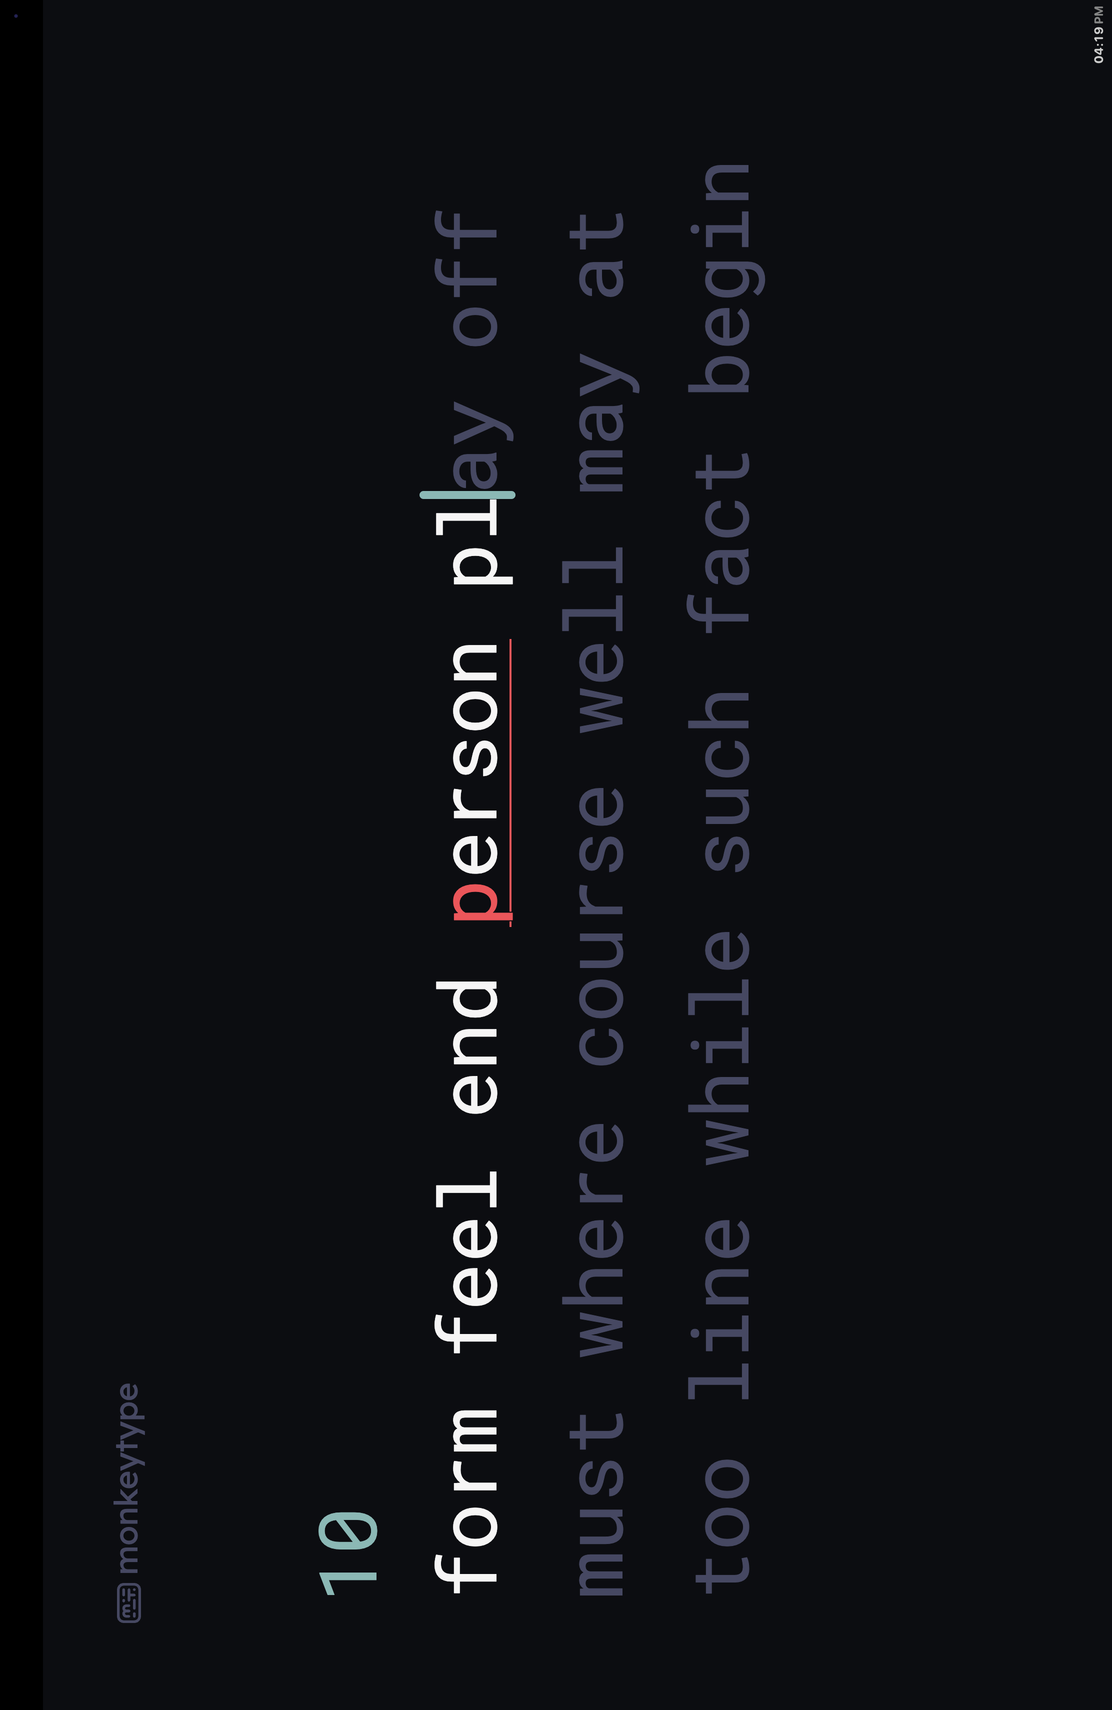
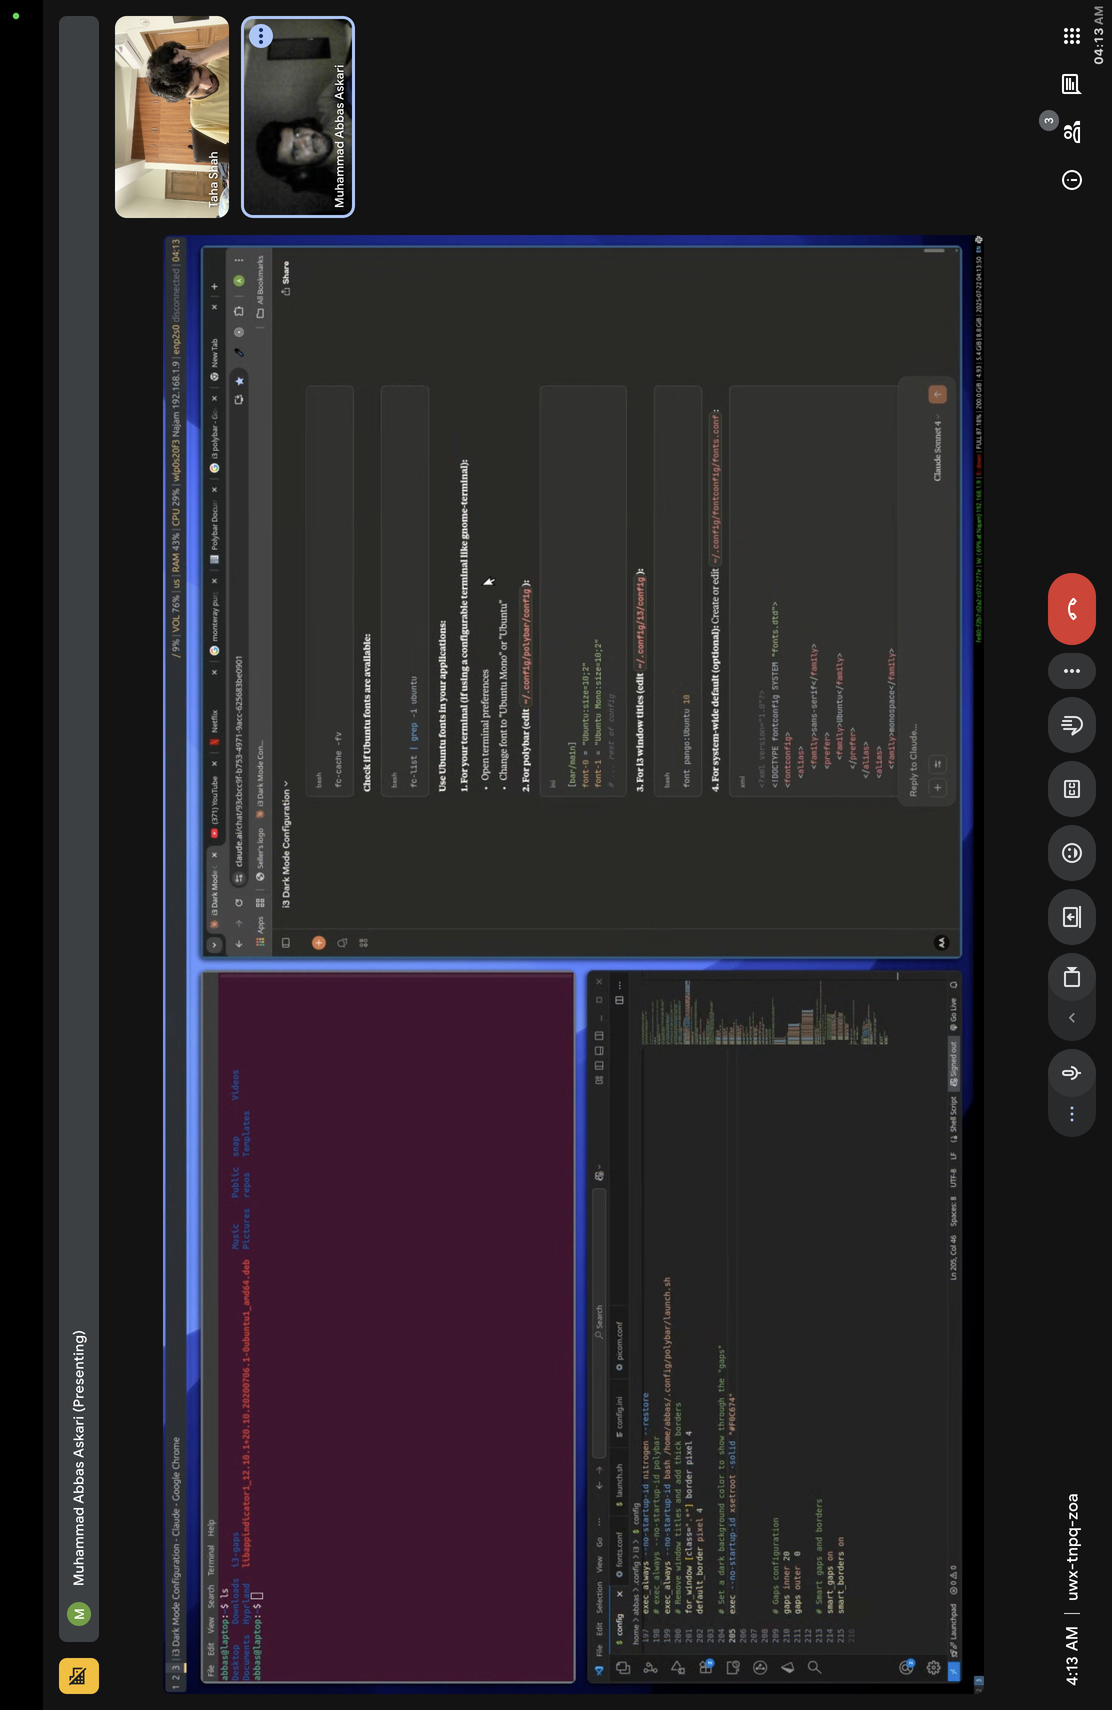
python type fixes

diff --git a/server.py b/server.py
@@ -22,10 +22,15 @@ def test_route():
 @app.route('/kill', methods=['GET'])
 def kill():
     killServers()
+    return jsonify({"status": "success", "message": f"Servers Killed"}), 200
     
 @app.route('/text', methods=['POST'])
 def type():
   data = request.json
+
+  if data == None:
+    return jsonify({"status": "error", "message": f"Data is missing from the request body"}), 200
+
   text = data.get('text', '')
   keyboard.type(text)
   return jsonify({"status": "success", "message": f"Text '{text}' typed"}), 200
@@ -34,6 +39,10 @@ def type():
 def handle_shift():
     try:
         data = request.json
+
+        if data == None:
+          return jsonify({"status": "error", "message": f"Data is missing from the request body"}), 200
+
         keys = data.get('keys', [])  # List of keys to press in order
         k = keys[0]
         hotkey('shift', pyGUIKeyMap[k])
@@ -53,6 +62,10 @@ def handle_click():
     """ Moves the mouse to a given (x, y) percentage position and clicks. """
     try:
         data = request.json
+
+        if data == None:
+          return jsonify({"status": "error", "message": f"Data is missing from the request body"}), 200
+
         x_percent = float(data.get("x", 0))
         y_percent = float(data.get("y", 0))
         clicking = False if data.get("clicking", 0) == 0 else True
@@ -82,6 +95,10 @@ def handle_click():
 @app.route('/keyboard', methods=['POST'])
 def handle_keyboard():
     data = request.json
+
+    if data == None:
+      return jsonify({"status": "error", "message": f"Data is missing from the request body"}), 200
+
     keys = data.get('keys', [])  # List of keys to press in order
 
     try:
@@ -122,6 +139,10 @@ def handle_keyboard():
 def handle_url():
     try:
         data = request.json
+
+        if data == None:
+          return jsonify({"status": "error", "message": f"Data is missing from the request body"}), 200
+
         link = data.get('link')
         if not link:
             return jsonify({"status": "error", "message": "Missing 'link' in request body"}), 400
@@ -137,6 +158,10 @@ def handle_url():
 def handle_scroll():
     try:
         data = request.json
+
+        if data == None:
+          return jsonify({"status": "error", "message": f"Data is missing from the request body"}), 200
+
         arrows = data.get('isArrowKeys')
         direction = data.get('direction')
         print(arrows)

diff --git a/killServers.py b/killServers.py
@@ -46,7 +46,8 @@ def kill_process(pid):
         print(f"Process with PID {pid} does not exist.")
     except psutil.TimeoutExpired:
         print(f"Process with PID {pid} did not terminate in time. Sending SIGKILL.")
-        proc.kill()  # Forcefully kill the process
+        # Forcefully kill the process
+        proc.kill()  # type: ignore 
     except Exception as e:
         print(f"Error killing process with PID {pid}: {e}")
 
